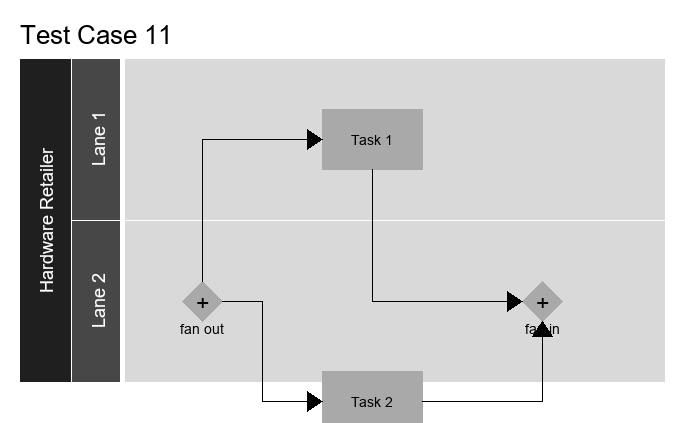
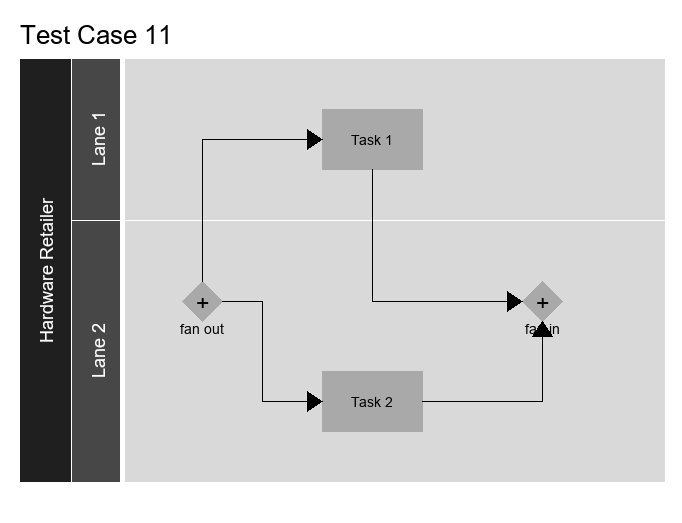
Fixed lane height issue

diff --git a/src/processmapper/processmap.py b/src/processmapper/processmap.py
@@ -171,10 +171,11 @@ class ProcessMap:
         return None
 
     ### Check how many rows of shapes are in the lane
-    def check_lane_shape_row_count(self, shape: Shape) -> int:
+    def check_lane_shape_row_count_old(self, shape: Shape) -> int:
         row_count = 0
         lane = self.get_lane_by_id(shape.lane_id)
         if len(shape.connection_to) <= 1:
+            print(f">lane: {lane.name} - {(shape.name)}, row_count: 1")
             return 1
         else:
             for connection in shape.connection_to:
@@ -182,6 +183,51 @@ class ProcessMap:
                 if shape.lane_id == target_shape.lane_id:
                     row_count += 1
 
+        print(f"->lane: {lane.name} - {(shape.name)}, row_count: {row_count}")
+        return row_count
+
+    ### Check how many rows of shapes are in the lane
+    def check_lane_shape_row_count(self, shape: Shape) -> int:
+        row_count = 0
+        lane = self.get_lane_by_id(shape.lane_id)
+        shape_y_pos = []
+        for lane_shape in lane.shapes:
+            print(f"lane_shape: {lane_shape.name}, {lane_shape.y}, shape.y: {shape.y}")
+            if lane_shape.y not in shape_y_pos:
+                shape_y_pos.append(lane_shape.y)
+
+        Helper.printc(
+            f"      =>lane: {lane.name} - {(shape.name)}, row_count: {len(shape_y_pos)}",
+            "31",
+        )
+        return len(shape_y_pos)
+
+    def check_lane_row_count(self, lane: Lane) -> int:
+        row_count = 0
+
+        for item, lane_shape in enumerate(lane.shapes):
+            if item == 0:
+                row_count = 1
+            if len(lane_shape.connection_to) > 1:
+                connection_count = 1
+                for connection in lane_shape.connection_to:
+                    target_shape = connection.target
+                    if lane_shape.lane_id == target_shape.lane_id:
+                        connection_count += 1
+                row_count = max(row_count, connection_count)
+
+            if len(lane_shape.connection_from) > 1:
+                connection_count = 1
+                for connection in lane_shape.connection_from:
+                    source_shape = connection
+                    if lane_shape.lane_id == source_shape.lane_id:
+                        connection_count += 1
+                row_count = max(row_count, connection_count)
+
+        Helper.printc(
+            f"      =>lane: {lane.name} - row_count: {row_count}",
+            "31",
+        )
         return row_count
 
     def set_shape_x_position(
@@ -192,6 +238,9 @@ class ProcessMap:
         x_pos: int = 0,
     ):
         current_lane = self.get_lane_by_id(current_shape.lane_id)
+        Helper.printc(
+            f"set_shape_x_position: {current_lane.name}, {current_shape.name}", "34"
+        )
         if index == 0:
             current_pool = self.get_pool_by_name(current_shape.pool_name)
             if previous_shape is not None:
@@ -222,9 +271,9 @@ class ProcessMap:
         self.lane_max_width = max(self.lane_max_width, current_lane.width)
         current_shape.x_pos_traversed = True
 
-        current_lane.shape_row_count = max(
-            current_lane.shape_row_count, self.check_lane_shape_row_count(current_shape)
-        )
+        # current_lane.shape_row_count = max(
+        #     current_lane.shape_row_count, self.check_lane_shape_row_count(current_shape)
+        # )
 
         preserved_x_pos = 0
         for index, next_connection in enumerate(current_shape.connection_to):
@@ -272,10 +321,17 @@ class ProcessMap:
             Configs.SURFACE_LEFT_MARGIN, Configs.SURFACE_TOP_MARGIN, painter
         )
 
-        Helper.printc("***Setting x position...")
+        Helper.printc("*** Setting elements' x position...")
         start_shape = self.find_start_shape()
 
         self.set_shape_x_position(None, start_shape, 0, 0)
+
+        Helper.printc(f"*** Setting elements' y position...")
+        # self.set_shape_y_position(start_shape)
+
+        # for pool in self._pools:
+        #     for lane in pool._lanes:
+        #         lane.shape_row_count = self.check_lane_row_count(lane)
 
         x, y = (
             0,
@@ -293,15 +349,18 @@ class ProcessMap:
                 )
                 lane.y = y if y > 0 else Configs.SURFACE_TOP_MARGIN
                 lane.width = self.lane_max_width
+
+                lane.shape_row_count = self.check_lane_row_count(lane)
+
                 lane.height = (
                     (lane.shape_row_count * 60)
                     + ((lane.shape_row_count - 1) * Configs.VSPACE_BETWEEN_SHAPES)
                     + Configs.LANE_SHAPE_TOP_MARGIN
                     + Configs.LANE_SHAPE_BOTTOM_MARGIN
                 )
-                # print(
-                #     f"lane.height: {lane.height} = ({lane.shape_row_count} * 60) + ({lane.shape_row_count} - 1) * {Configs.VSPACE_BETWEEN_SHAPES} + {Configs.LANE_SHAPE_TOP_MARGIN} + {Configs.LANE_SHAPE_BOTTOM_MARGIN}"
-                # )
+                print(
+                    f"{lane.name}, height: {lane.height} = ({lane.shape_row_count} * 60) + ({lane.shape_row_count} - 1) * {Configs.VSPACE_BETWEEN_SHAPES} + {Configs.LANE_SHAPE_TOP_MARGIN} + {Configs.LANE_SHAPE_BOTTOM_MARGIN}"
+                )
                 y = lane.y + lane.height + Configs.VSPACE_BETWEEN_LANES
                 # print(f"{x} = {lane.y} + {lane.height} + {lane.VSPACE_BETWEEN_LANES}")
 
@@ -311,7 +370,6 @@ class ProcessMap:
 
             pool.set_draw_position(Configs.SURFACE_LEFT_MARGIN, first_lane_y, painter)
 
-        Helper.printc(f"***Setting y position...")
         self.set_shape_y_position(start_shape)
 
         ### Set process map footer

diff --git a/src/processmapper/shape.py b/src/processmapper/shape.py
@@ -90,9 +90,9 @@ class Shape:
             for target_name, target_points in points_target.items():
                 distance = self.get_distance(source_points, target_points)
 
-                print(
-                    f"  S:{source_name}, {source_points}, T:{target_name}, {target_points}, {distance}"
-                )
+                # print(
+                #     f"  S:{source_name}, {source_points}, T:{target_name}, {target_points}, {distance}"
+                # )
                 if (
                     distance
                     < shortest_distance
@@ -111,7 +111,7 @@ class Shape:
         del points_source[nearest_points["source_name"]]
         del points_target[nearest_points["target_name"]]
 
-        print(f"  Nearest points: {nearest_points}")
+        print(f"        Nearest : {nearest_points}")
         return (
             nearest_points["source_points"],
             nearest_points["source_name"],
@@ -238,7 +238,7 @@ class Shape:
 
         # draw connection
         source_points = self.points
-        Helper.printc(f"Draw connection for shape: {self.name}")
+        Helper.printc(f"Draw connection for shape: [{self.name}]")
         if self.connection_to:
             connection_style = "solid"
             for connection in self.connection_to:
@@ -247,7 +247,7 @@ class Shape:
 
                 if self.is_same_lane(self, connection.target):
                     print(
-                        f"Same lane: Connection between {self.name} and {connection.target.name}"
+                        f"Same lane: Connection between [{self.name}] and [{connection.target.name}]"
                     )
                     (
                         point_from,
@@ -257,7 +257,7 @@ class Shape:
                     ) = self.find_nearest_points(source_points, target_points)
                 elif self.is_same_pool(self, connection.target):
                     print(
-                        f"Same Pool: Connection between {self.name} and {connection.target.name}"
+                        f"Same Pool: Connection between [{self.name}] and [{connection.target.name}]"
                     )
                     (
                         point_from,
@@ -267,13 +267,13 @@ class Shape:
                     ) = self.find_nearest_points_same_pool_diff_lanes(
                         source_points, target_points
                     )
-                    print(
-                        f"{self.name} and {connection.target.name}, Same pool: {self.pool_name}"
-                    )
+                    # print(
+                    #     f"  {self.name} and {connection.target.name}, Same pool: {self.pool_name}"
+                    # )
                     ...
                 else:  # different pool
                     print(
-                        f"Diff Pool: Connection between {self.name} and {connection.target.name}"
+                        f"Diff Pool: Connection between [{self.name}] and [{connection.target.name}]"
                     )
                     (
                         point_from,

diff --git a/src/processmapper/painter.py b/src/processmapper/painter.py
@@ -563,7 +563,7 @@ class Painter:
         connector_line_colour: str = "",
     ):
         print(
-            f"x1: {x1}, y1: {y1}, face1: {face1}, x2: {x2}, y2: {y2}, face2: {face2}, connection_style: {connection_style}, connector_line_width: {connector_line_width}, connector_line_colour: {connector_line_colour}"
+            f"      x1: {x1}, y1: {y1}, face1: {face1}, x2: {x2}, y2: {y2}, face2: {face2}"
         )
         if x1 == x2 and y1 == y2:
             print(
